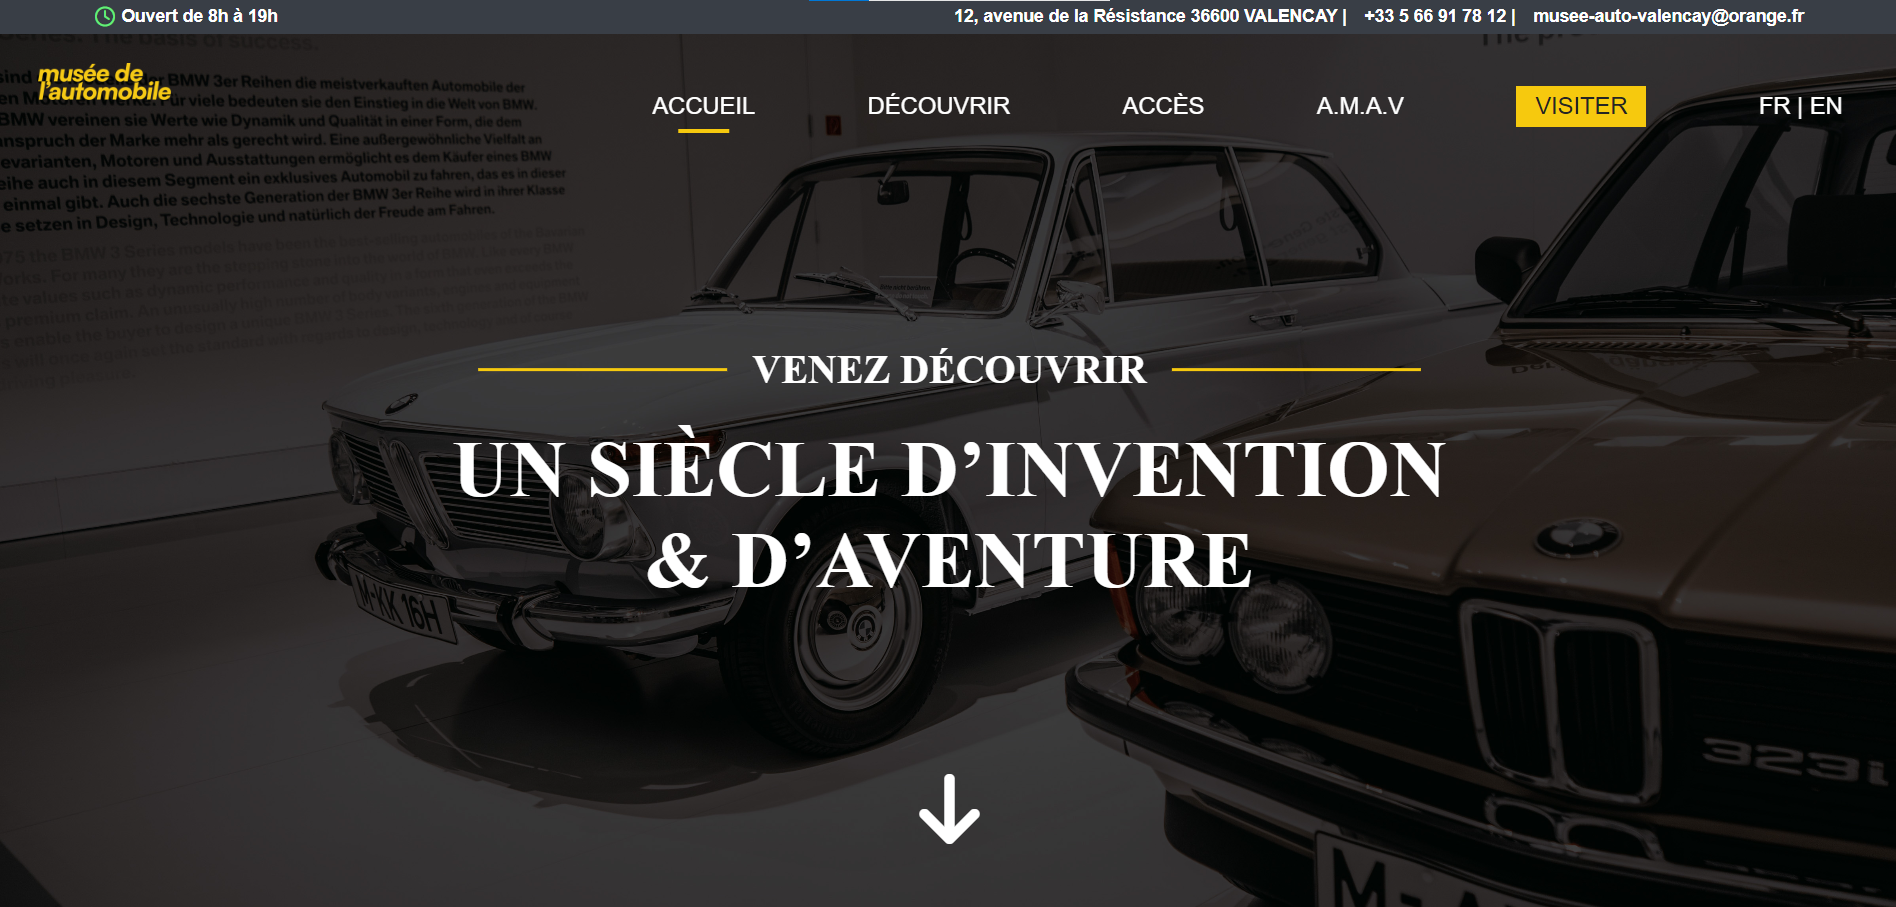
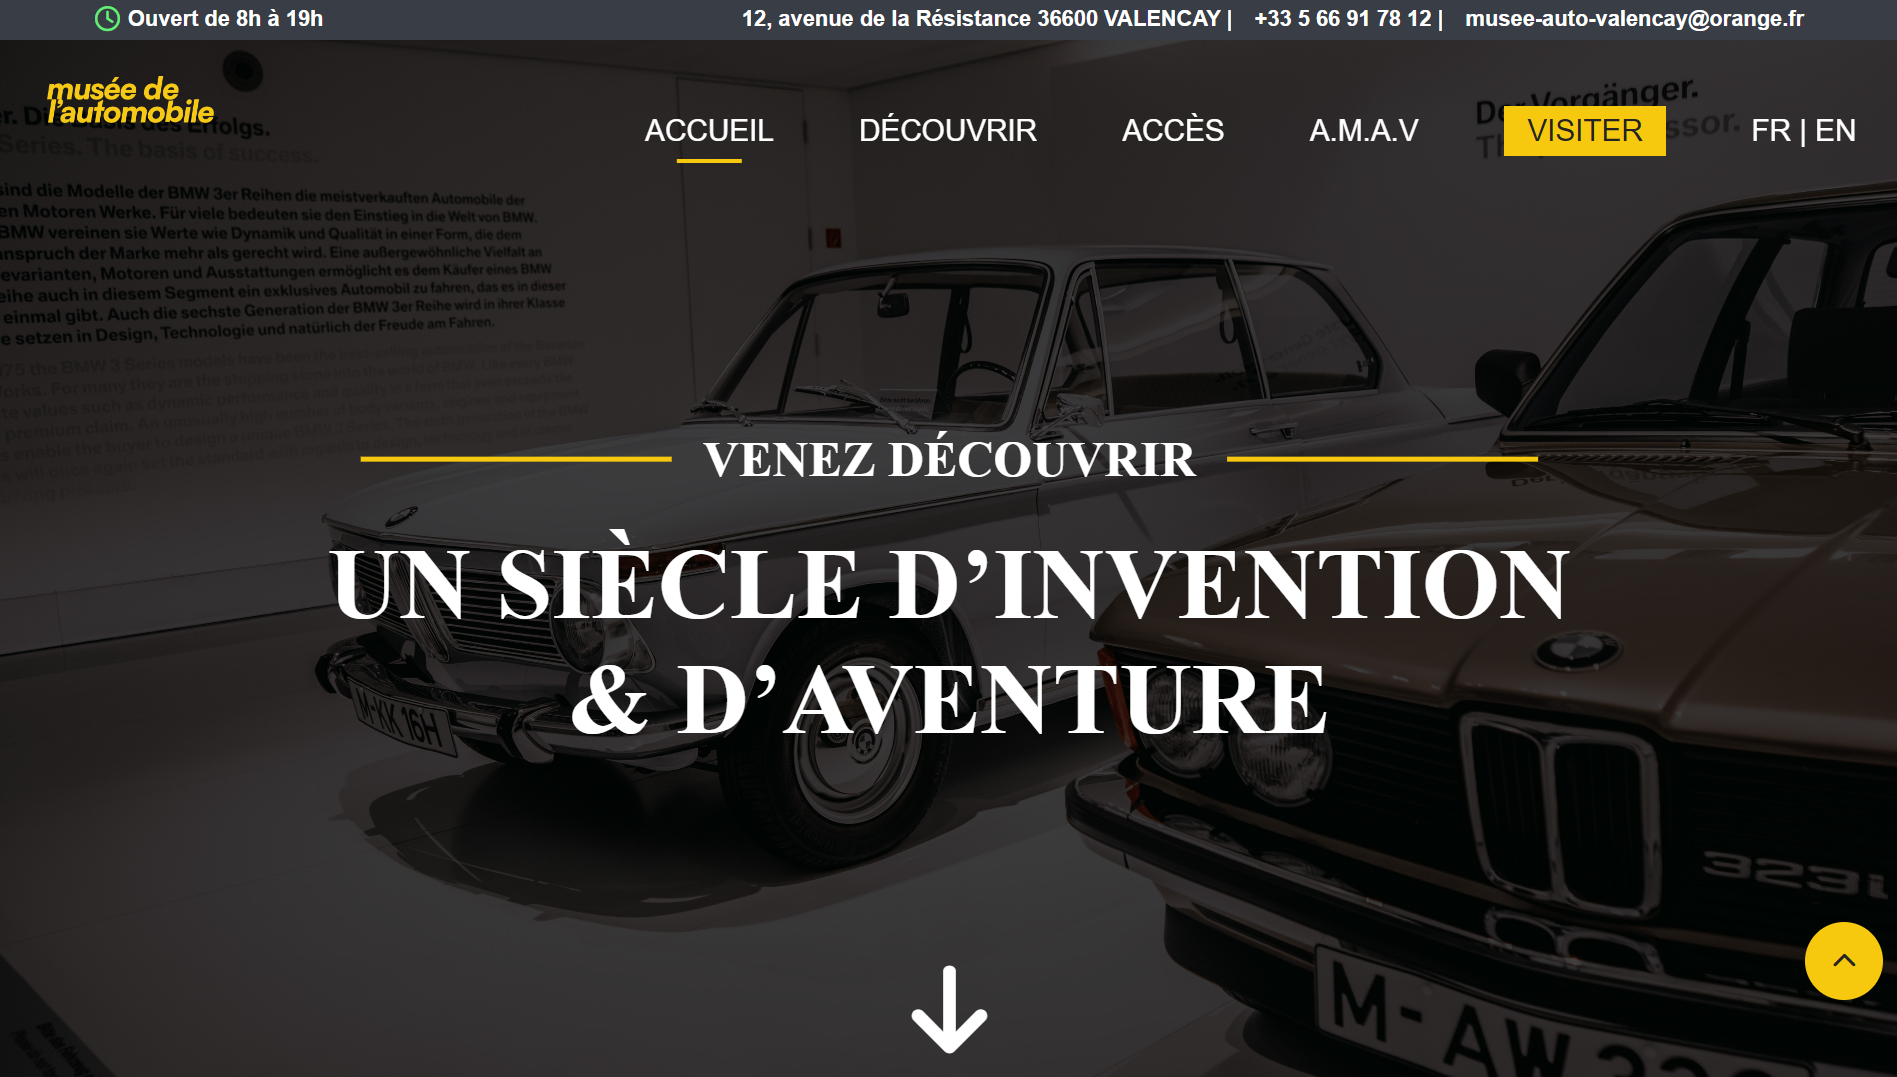
web update

diff --git a/Project/musee/musee.html b/Project/musee/musee.html
@@ -4,7 +4,7 @@
         <meta charset="UTF-8" />
         <meta http-equiv="X-UA-Compatible" content="IE=edge" />
         <meta name="viewport" content="width=device-width, initial-scale=1.0" />
-        <title>The Resto</title>
+        <title>Musée automobile de Valençay</title>
         <link rel="stylesheet" href="../style p/index.css" />
     </head>
     <body>
@@ -38,7 +38,7 @@
         </section>
         <main>
             <section class="cover">
-                <img src="/asstets/img/the-resto-cover.jpg" alt="" />
+                <img src="./assets musee/cover-musee.png" alt="" />
             </section>
             <section class="project-description">
                 <div class="txt-project">
@@ -65,22 +65,14 @@
                 </div>
                 <div class="img-project">
                     <div class="img-container">
-                        <img
-                            src="./assets montblanc/img/moto-complete.png"
-                            alt=""
-                        />
+                        <img src="./assets musee/acces-musee.png" alt="" />
                     </div>
                     <div class="img-container">
-                        <img
-                            src="./assets montblanc/img/back-wheel.png"
-                            alt=""
-                        />
+                        <img src="./assets musee/infos-homepage.png" alt="" />
                     </div>
+
                     <div class="img-container">
-                        <img
-                            src="./assets montblanc/img/handlebar.gif"
-                            alt=""
-                        />
+                        <img src="./assets musee/mustang-discover.png" alt="" />
                     </div>
                 </div>
             </section>
@@ -97,7 +89,9 @@
                         <li>
                             <img src="/asstets/img/logo/saas.png" alt="" />
                         </li>
-                        <li><img src="/asstets/img/logo/js.png" alt="" /></li>
+                        <li>
+                            <img src="/asstets/img/logo/figma.png" alt="" />
+                        </li>
                     </ul>
                     <p>
                         Utilisation de Scss pour tous le style hormis le

diff --git a/index.html b/index.html
@@ -95,12 +95,12 @@
                             </div>
                         </div></a
                     >
-                    <a href="./Project/the Resto/resto.html">
+                    <a href="./Project/musee/musee.html">
                         <div class="project">
                             <h5>Musée automobile de Valencay</h5>
                             <div class="img-container">
                                 <img
-                                    src="./asstets/img/the-resto-cover.jpg"
+                                    src="./Project/musee/assets musee/cover-musee.png"
                                     alt=""
                                 />
                             </div>

diff --git a/Project/greeny/greeny.html b/Project/greeny/greeny.html
@@ -57,11 +57,7 @@
 
                         Pour cette logique j’ai utilisé les objets de Javascript
                         pour permettre d’associer une note à chaque réponse afin
-                        de pouvoir impacter le pourcentage final. <br />
-                        <br />
-                        Ce projet m’a vraiment permis d’appliquer ce que j’ai pu
-                        voir dans la formation en ligne que je suis sur le
-                        développement front-end.
+                        de pouvoir impacter le pourcentage final.
                     </p>
                 </div>
 

diff --git a/Projects/styles ps/index.css b/Projects/styles ps/index.css
@@ -154,6 +154,9 @@ main .projects .project .content .left .view-project {
   font-family: barracuda-bold, serif;
   font-size: 18px;
 }
+main .projects .project .content .left .view-project a {
+  color: #000;
+}
 
 footer {
   background: #fff;
@@ -187,7 +190,10 @@ footer .main-footer .left-footer ul {
 footer .main-footer .left-footer ul li {
   transition: 0.2s;
 }
-footer .main-footer .left-footer ul li:hover {
+footer .main-footer .left-footer ul li a {
+  color: #000;
+}
+footer .main-footer .left-footer ul li a:hover {
   cursor: pointer;
   color: rgb(73, 73, 73);
 }

diff --git a/Projects/styles ps/layout/_footer.scss b/Projects/styles ps/layout/_footer.scss
@@ -27,9 +27,12 @@ footer {
                 li {
                     transition: 0.2s;
 
-                    &:hover {
-                        cursor: pointer;
-                        color: rgb(73, 73, 73);
+                    a {
+                        color: $black;
+                        &:hover {
+                            cursor: pointer;
+                            color: rgb(73, 73, 73);
+                        }
                     }
                 }
             }

diff --git a/Projects/projects.html b/Projects/projects.html
@@ -116,7 +116,7 @@
                     <div class="content">
                         <div class="img-container">
                             <img
-                                src="../asstets/img/the-resto-cover.jpg"
+                                src="/Project/musee/assets musee/cover-musee.png"
                                 alt=""
                             />
                         </div>

diff --git a/Projects/styles ps/layout/_main.scss b/Projects/styles ps/layout/_main.scss
@@ -56,6 +56,9 @@ main {
                         padding: 10px 15px;
                         font-family: $barracuda;
                         font-size: 18px;
+                        a {
+                            color: $black;
+                        }
                     }
                 }
             }
